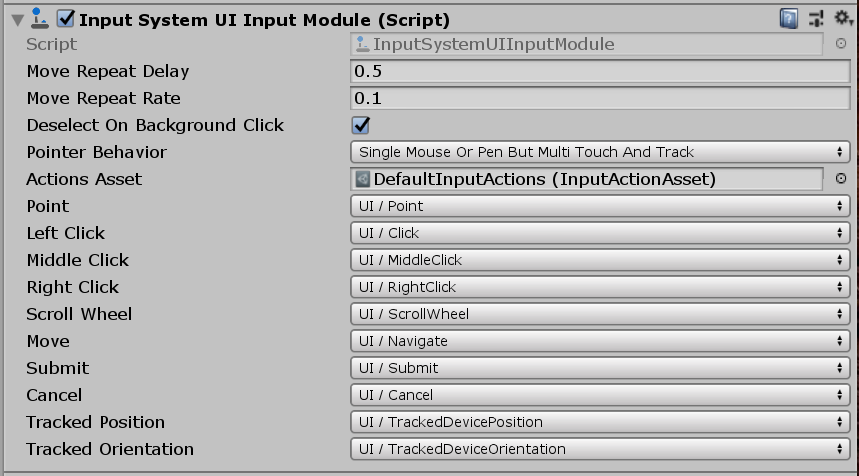
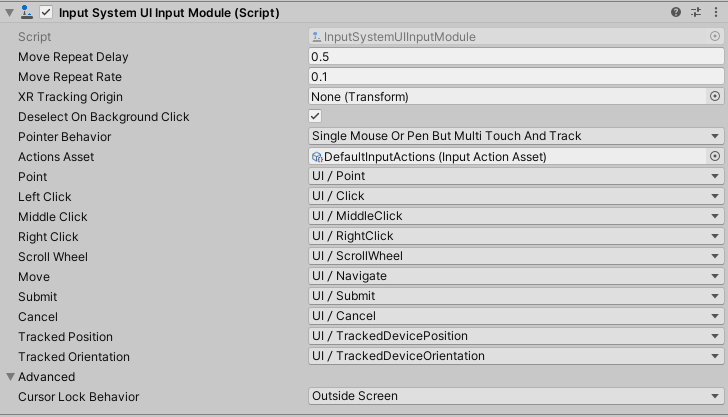
Address feedback
* Updated documentation and images
* Fixed compile error on newer versions of Unity due to UIElements

diff --git a/Assets/Tests/InputSystem/Plugins/UITests.cs b/Assets/Tests/InputSystem/Plugins/UITests.cs
@@ -24,6 +24,7 @@ using Image = UnityEngine.UI.Image;
 using Is = UnityEngine.TestTools.Constraints.Is;
 using MouseButton = UnityEngine.InputSystem.LowLevel.MouseButton;
 using UnityEngine.Scripting;
+using Cursor = UnityEngine.Cursor;
 
 #if UNITY_EDITOR
 using UnityEditor;

diff --git a/Packages/com.unity.inputsystem/Documentation~/UISupport.md b/Packages/com.unity.inputsystem/Documentation~/UISupport.md
@@ -32,6 +32,7 @@ You can use the following properties to configure [InputSystemUIInputModule](../
 |[Actions Asset](../api/UnityEngine.InputSystem.UI.InputSystemUIInputModule.html#UnityEngine_InputSystem_UI_InputSystemUIInputModule_actionsAsset)|An [Input Action Asset](ActionAssets.md) containing all the Actions to control the UI. You can choose which Actions in the Asset correspond to which UI inputs using the following properties.<br><br>By default, this references a built-in Asset named *DefaultInputActions*, which contains common default Actions for driving UI. If you want to set up your own Actions, [create a custom Input Action Asset](ActionAssets.md#creating-input-action-assets) and assign it here. When you assign a new Asset reference to this field in the Inspector, the Editor attempts to automatically map Actions to UI inputs based on common naming conventions.|
 |[Deselect on Background Click](../api/UnityEngine.InputSystem.UI.InputSystemUIInputModule.html#UnityEngine_InputSystem_UI_InputSystemUIInputModule_deselectOnBackgroundClick)|By default, when the pointer is clicked and does not hit any `GameObject`, the current selection is cleared. This, however, can get in the way of keyboard and gamepad navigation which will want to work off the currently selected object. To prevent automatic deselection, set this property to false.|
 |[Pointer Behavior](../api/UnityEngine.InputSystem.UI.InputSystemUIInputModule.html#UnityEngine_InputSystem_UI_InputSystemUIInputModule_pointerBehavior)|How to deal with multiple pointers feeding input into the UI. See [pointer-type input](#pointer-type-input).|
+|[Cursor Lock Behavior](../api/UnityEngine.InputSystem.UI.InputSystemUIInputModule.html#UnityEngine_InputSystem_UI_InputSystemUIInputModule_cursorLockBehavior)|Controls the origin point of UI raycasts when the cursor is locked. |
 
 You can use the following properties to map Actions from the chosen [__Actions Asset__](../api/UnityEngine.InputSystem.UI.InputSystemUIInputModule.html#UnityEngine_InputSystem_UI_InputSystemUIInputModule_actionsAsset) to UI input Actions. In the Inspector, these appear as foldout lists that contain all the Actions in the Asset:
 
@@ -63,7 +64,7 @@ For each of these types of input, input is sourced and combined from a specific 
 To the UI, a pointer is a position from which clicks and scrolls can be triggered to interact with UI elements at the pointer's position. Pointer-type input is sourced from [point](../api/UnityEngine.InputSystem.UI.InputSystemUIInputModule.html#UnityEngine_InputSystem_UI_InputSystemUIInputModule_point), [leftClick](../api/UnityEngine.InputSystem.UI.InputSystemUIInputModule.html#UnityEngine_InputSystem_UI_InputSystemUIInputModule_leftClick), [rightClick](../api/UnityEngine.InputSystem.UI.InputSystemUIInputModule.html#UnityEngine_InputSystem_UI_InputSystemUIInputModule_rightClick), [middleClick](../api/UnityEngine.InputSystem.UI.InputSystemUIInputModule.html#UnityEngine_InputSystem_UI_InputSystemUIInputModule_middleClick), and [scrollWheel](../api/UnityEngine.InputSystem.UI.InputSystemUIInputModule.html#UnityEngine_InputSystem_UI_InputSystemUIInputModule_scrollWheel).
 
 >[!NOTE]
->The UI input module does not have an association between pointers and cursors. In general, the UI is oblivious to whether a cursor exists for a particular pointer. However, for mouse and pen input, the UI input module will respect [Cusor.lockState](https://docs.unity3d.com/ScriptReference/Cursor-lockState.html) and pin the pointer position at `(-1,-1)` whenever the cursor is locked.
+>The UI input module does not have an association between pointers and cursors. In general, the UI is oblivious to whether a cursor exists for a particular pointer. However, for mouse and pen input, the UI input module will respect [Cusor.lockState](https://docs.unity3d.com/ScriptReference/Cursor-lockState.html) and pin the pointer position at `(-1,-1)` whenever the cursor is locked. This behavior can be changed through the [Cursor Lock Behavior](../api/UnityEngine.InputSystem.UI.InputSystemUIInputModule.html#UnityEngine_InputSystem_UI_InputSystemUIInputModule_cursorLockBehavior) property of the [InputSystemUIInputModule](../api/UnityEngine.InputSystem.UI.InputSystemUIInputModule.html).
 
 Multiple pointer Devices may feed input into a single UI input module. Also, in the case of [Touchscreen](../api/UnityEngine.InputSystem.Touchscreen.html), a single Device can have the ability to have multiple concurrent pointers (each finger contact is one pointer).
 
